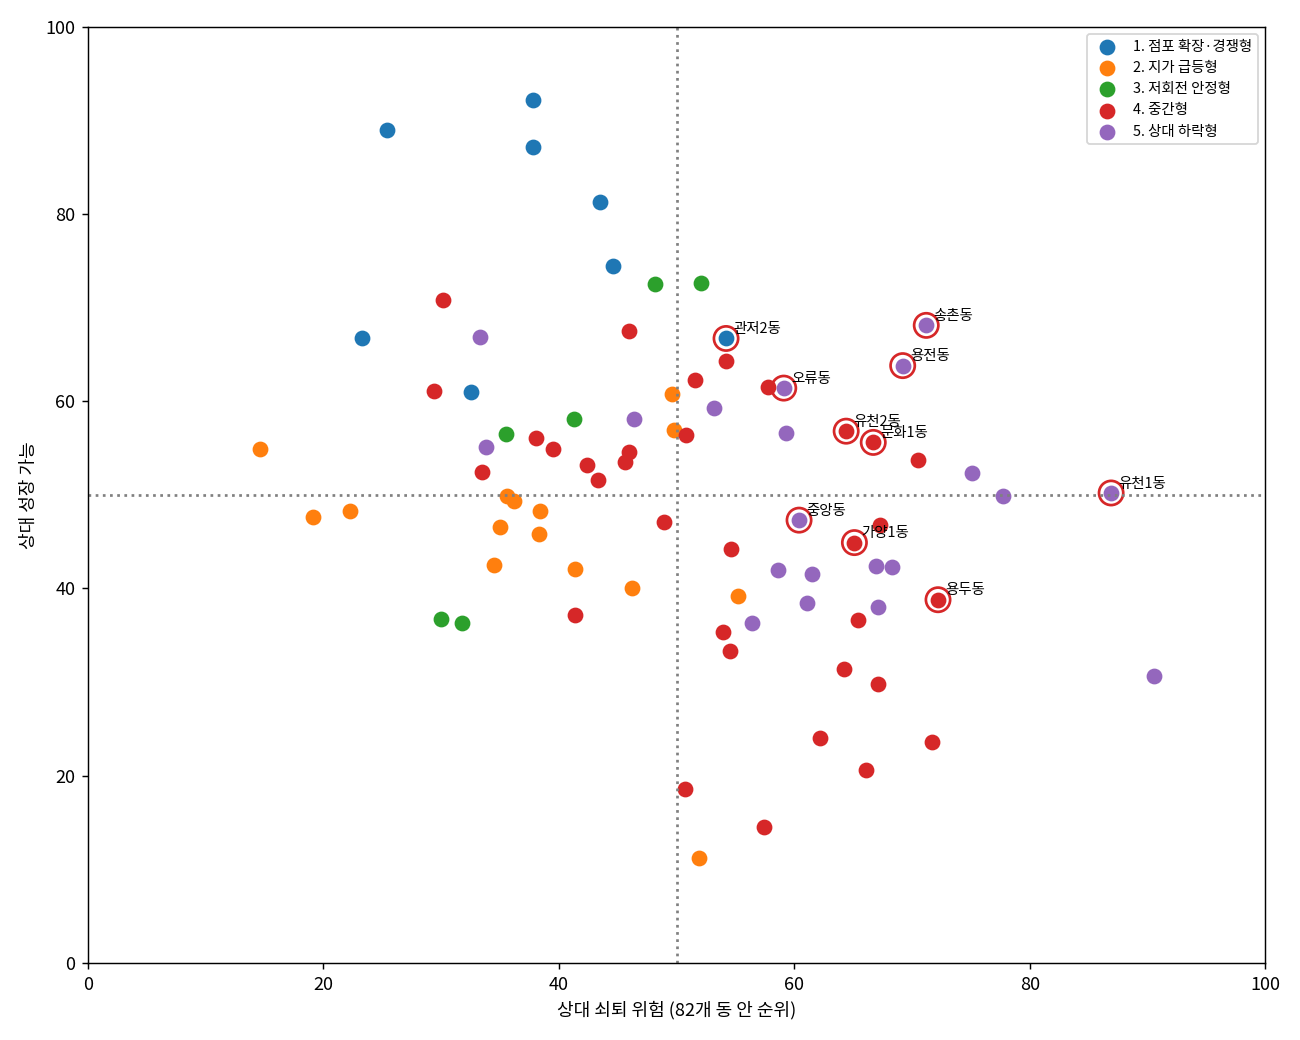
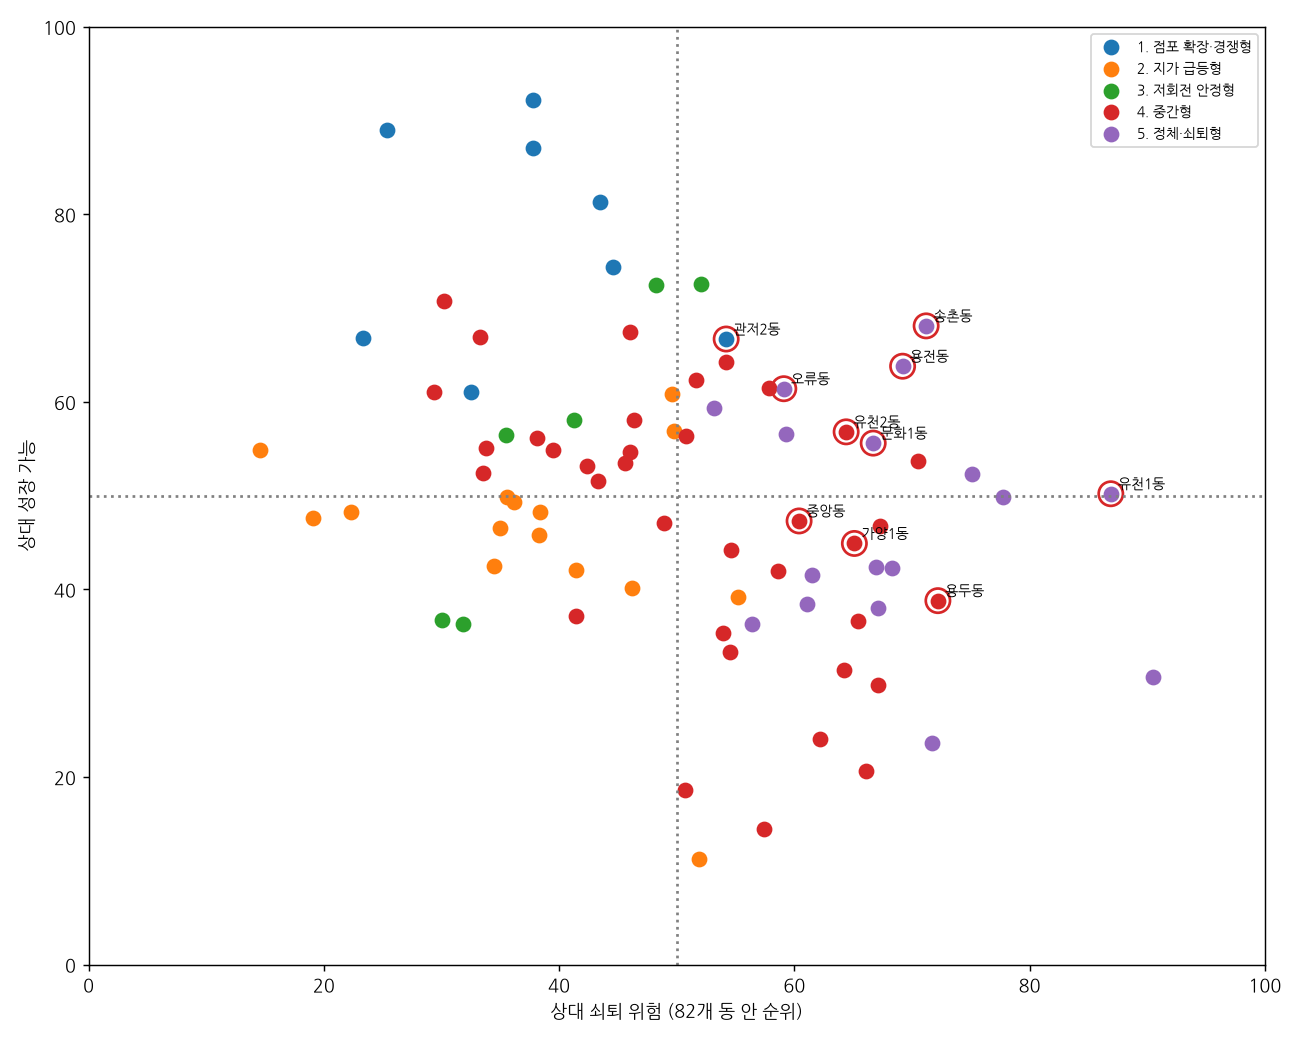
행정동 82개 패널·유형·예측·점수·금액

diff --git a/tram_model/analyze_tram_impact_dongs.py b/tram_model/analyze_tram_impact_dongs.py
@@ -1,0 +1,70 @@
+"""행정동 82개 트램 효과 금액 (analyze_tram_impact.py 의 행정동 합계판)
+
+입력: outputs/landprice_parcels.csv.gz (필지 좌표·정거장 거리), outputs/parcel_value.csv.gz (2026 면적·공시가),
+      outputs/dong_polygons.geojson, outputs/dong_forecast_land.csv, outputs/dong_scores.csv, tram_effect.py
+출력: outputs/dong_tram_money.csv  (동별 정거장 500m 안 공시지가 총액·증가액 낮음/기본/높음, 동 전체 총액, 2034 트램 유무 차이)
+방법: 필지 좌표 → 행정동 폴리곤(점-다각형), 공공 지목(도로·하천 등) 제외, 금액 = 총액 × 시나리오 효과 % (상권과 같은 식)
+"""
+import json
+import numpy as np
+import pandas as pd
+
+import config as C
+import tram_effect as TE
+from analyze_tram_impact import PUBLIC_JIMOK, EOK
+
+OUT = C.OUT_DIR
+
+
+def point_in_poly(lon, lat, poly):
+    x, y = np.asarray(lon), np.asarray(lat); inside = np.zeros(len(x), bool)
+    px, py = np.array(poly)[:, 0], np.array(poly)[:, 1]; j = len(px) - 1
+    for i in range(len(px)):
+        cond = ((py[i] > y) != (py[j] > y)) & (x < (px[j] - px[i]) * (y - py[i]) / (py[j] - py[i] + 1e-12) + px[i]); inside ^= cond; j = i
+    return inside
+
+
+def assign_dong(G):
+    gj = json.load(open(OUT / "dong_polygons.geojson", encoding="utf-8"))
+    G = G.copy(); G["dong_id"] = None
+    lon, lat = G.lon.values, G.lat.values
+    for ft in gj["features"]:
+        geom = ft["geometry"]; polys = [geom["coordinates"][0]] if geom["type"] == "Polygon" else [p[0] for p in geom["coordinates"]]
+        # 경계 상자로 먼저 거르기
+        pts = np.array([p for poly in polys for p in poly]); bb = (lon >= pts[:, 0].min()) & (lon <= pts[:, 0].max()) & (lat >= pts[:, 1].min()) & (lat <= pts[:, 1].max())
+        idx = np.where(bb & G.dong_id.isna().values)[0]
+        if not len(idx): continue
+        m = np.zeros(len(idx), bool)
+        for poly in polys: m |= point_in_poly(lon[idx], lat[idx], poly)
+        G.iloc[idx[m], G.columns.get_loc("dong_id")] = str(ft["properties"]["id"])
+    return G
+
+
+def main():
+    L = TE.levels(); pct = {s: L[s]["pct"] / 100 for s in TE.SCEN}
+    G0 = pd.read_csv(OUT / "landprice_parcels.csv.gz", encoding="utf-8-sig")
+    V = pd.read_csv(OUT / "parcel_value.csv.gz", encoding="utf-8-sig")
+    G = G0.merge(V, on="pnu", how="inner"); G = G[~G.jimok.isin(PUBLIC_JIMOK)]
+    print(f"필지 {len(G):,}개 → 행정동 배정 중 (1~2분) ...", flush=True)
+    G = assign_dong(G); print("배정 안 된 필지:", int(G.dong_id.isna().sum()))
+    near = G[G.d_tram <= 500]
+    tot = G.groupby("dong_id").value.sum(); tn = near.groupby("dong_id").agg(n_parcels_500=("pnu", "size"), area_km2_500=("area_m2", lambda v: v.sum() / 1e6), value_500=("value", "sum"))
+    names = {str(f["properties"]["id"]): f["properties"]["name"] for f in json.load(open(OUT / "dong_polygons.geojson", encoding="utf-8"))["features"]}
+    M = pd.DataFrame({"dong_id": list(names), "name": list(names.values())}).set_index("dong_id")
+    M["value_total_eok"] = (tot.reindex(M.index) / EOK).round(1)
+    M = M.join(tn); M["value_500_eok"] = (M.value_500 / EOK).round(1); M["share_500_value"] = (M.value_500 / tot.reindex(M.index)).round(3)
+    for s in TE.SCEN: M[f"gain_{s}_eok"] = (M.value_500.fillna(0) * pct[s] / EOK).round(1)
+    # 2034 트램 유무 차이 (예측 경로 × 동 전체 총액)
+    F = pd.read_csv(OUT / "dong_forecast_land.csv", dtype={"code": str}, encoding="utf-8-sig"); f = F[F.year == F.year.max()].set_index("code")
+    for s in TE.SCEN: M[f"gap2034_{s}_eok"] = ((f[f"tram_{s}"] / f.base_path - 1).reindex(M.index) * M.value_total_eok).round(1)
+    Sc = pd.read_csv(OUT / "dong_scores.csv", dtype={"dong_id": str}, encoding="utf-8-sig").set_index("dong_id")
+    M["quadrant"] = Sc.quadrant.reindex(M.index); M["risk_score"] = Sc.risk_score.reindex(M.index)
+    M = M.drop(columns=["value_500"]).fillna({"n_parcels_500": 0, "area_km2_500": 0, "value_500_eok": 0, "share_500_value": 0}).sort_values("gain_base_eok", ascending=False).reset_index()
+    M.to_csv(OUT / "dong_tram_money.csv", index=False, encoding="utf-8-sig")
+    print(f"500m 안 총액 합계 {M.value_500_eok.sum():,.0f}억 원, 기본 증가액 합계 {M.gain_base_eok.sum():,.0f}억 (낮음 {M.gain_low_eok.sum():,.0f} ~ 높음 {M.gain_high_eok.sum():,.0f})")
+    print(M.head(12)[["name", "quadrant", "value_total_eok", "value_500_eok", "share_500_value", "gain_base_eok", "gap2034_base_eok"]].to_string(index=False))
+    print("반등 기회 동 합계(기본):", round(M[M.quadrant == "트램 반등 기회"].gain_base_eok.sum()), "억,  2034 차이 합계:", round(M[M.quadrant == "트램 반등 기회"].gap2034_base_eok.sum()), "억")
+
+
+if __name__ == "__main__":
+    main()

diff --git a/tram_model/build_dong_map_profile.py b/tram_model/build_dong_map_profile.py
@@ -37,13 +37,18 @@ def main():
         for c in ("sales_2026_m", "sales_yoy_pct", "sales_per_store_2026", "floating_2026", "resident_2026", "resident_chg_24_26_pct", "closure_rate_12m_pct"):
             D["s89_" + c] = D.dong_id.map(E[c])
         D["s89_market_caveat"] = D.dong_id.isin(E[E.sales_per_store_2026 < 1.5e6].index)   # 전통시장 동: 점포당 150만 원 미만 → 카드매출 과소
+    fm = OUT / "dong_tram_money.csv"
+    if fm.exists():
+        Mo = pd.read_csv(fm, dtype={"dong_id": str}, encoding="utf-8-sig").set_index("dong_id")
+        for c in ("value_total_eok", "value_500_eok", "share_500_value", "gain_low_eok", "gain_base_eok", "gain_high_eok", "gap2034_base_eok"):
+            D["money_" + c] = D.dong_id.map(Mo[c])
     D["tram_group"] = np.select([D.tram500_share >= 0.5, D.tram500_share >= 0.1], ["트램 영향권", "일부"], "영향권 밖")
     D = D.round(4)
     D.to_csv(OUT / "dong_map_profile.csv", index=False, encoding="utf-8-sig")
 
     gj = json.load(open(OUT / "dong_polygons.geojson", encoding="utf-8"))
     keep = ["dong_id", "name", "si", "dong", "type_name", "cluster", "risk_score", "growth_score", "quadrant", "quadrant_uncertain", "tram_effect", "tram500_share", "tram_group",
-            "nearest_tram", "nearest_tram_m", "n_stores", "small", "land_rel_idx", "land_chg_5y_pct", "land_2034_base", "land_2034_tram", "s89_sales_yoy_pct", "s89_sales_per_store_2026", "s89_market_caveat", "areas"]
+            "nearest_tram", "nearest_tram_m", "n_stores", "small", "land_rel_idx", "land_chg_5y_pct", "land_2034_base", "land_2034_tram", "money_gain_base_eok", "money_value_500_eok", "s89_sales_yoy_pct", "s89_sales_per_store_2026", "s89_market_caveat", "areas"]
     Di = D.set_index("dong_id")
     for ft in gj["features"]:
         k = str(ft["properties"]["id"]); r = Di.loc[k] if k in Di.index else None

diff --git a/tram_model/run_all.py b/tram_model/run_all.py
@@ -54,6 +54,7 @@ STEPS = [
     ("cluster_dongs", "행정동 유형 (K-means)", None),
     ("forecast_dongs", "행정동 지가·점포 예측 + 트램 시나리오 (약 1분)", None),
     ("score_dongs", "행정동 쇠퇴 위험·성장 점수·진단", None),
+    ("analyze_tram_impact_dongs", "행정동 트램 효과 금액 (약 1분)", None),
     ("build_dong_map_profile", "지도용 행정동 요약표·GeoJSON·정거장 요약", None),
     ("make_map_data", "지도용 데이터 (점수 반영)", None),
 ]
